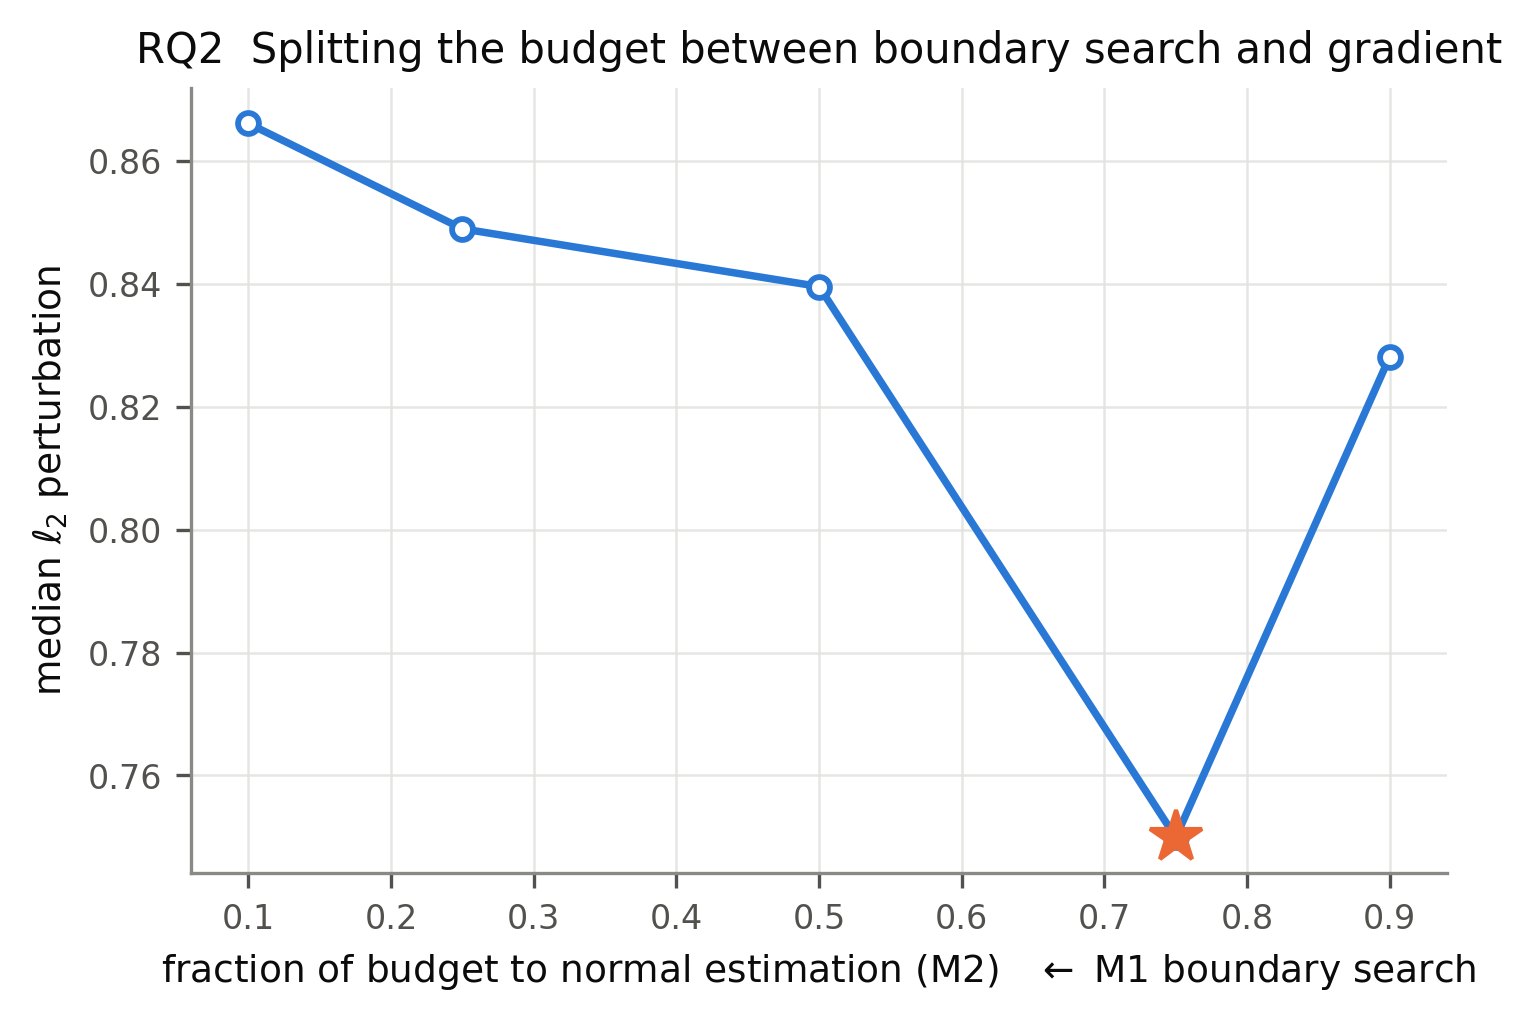
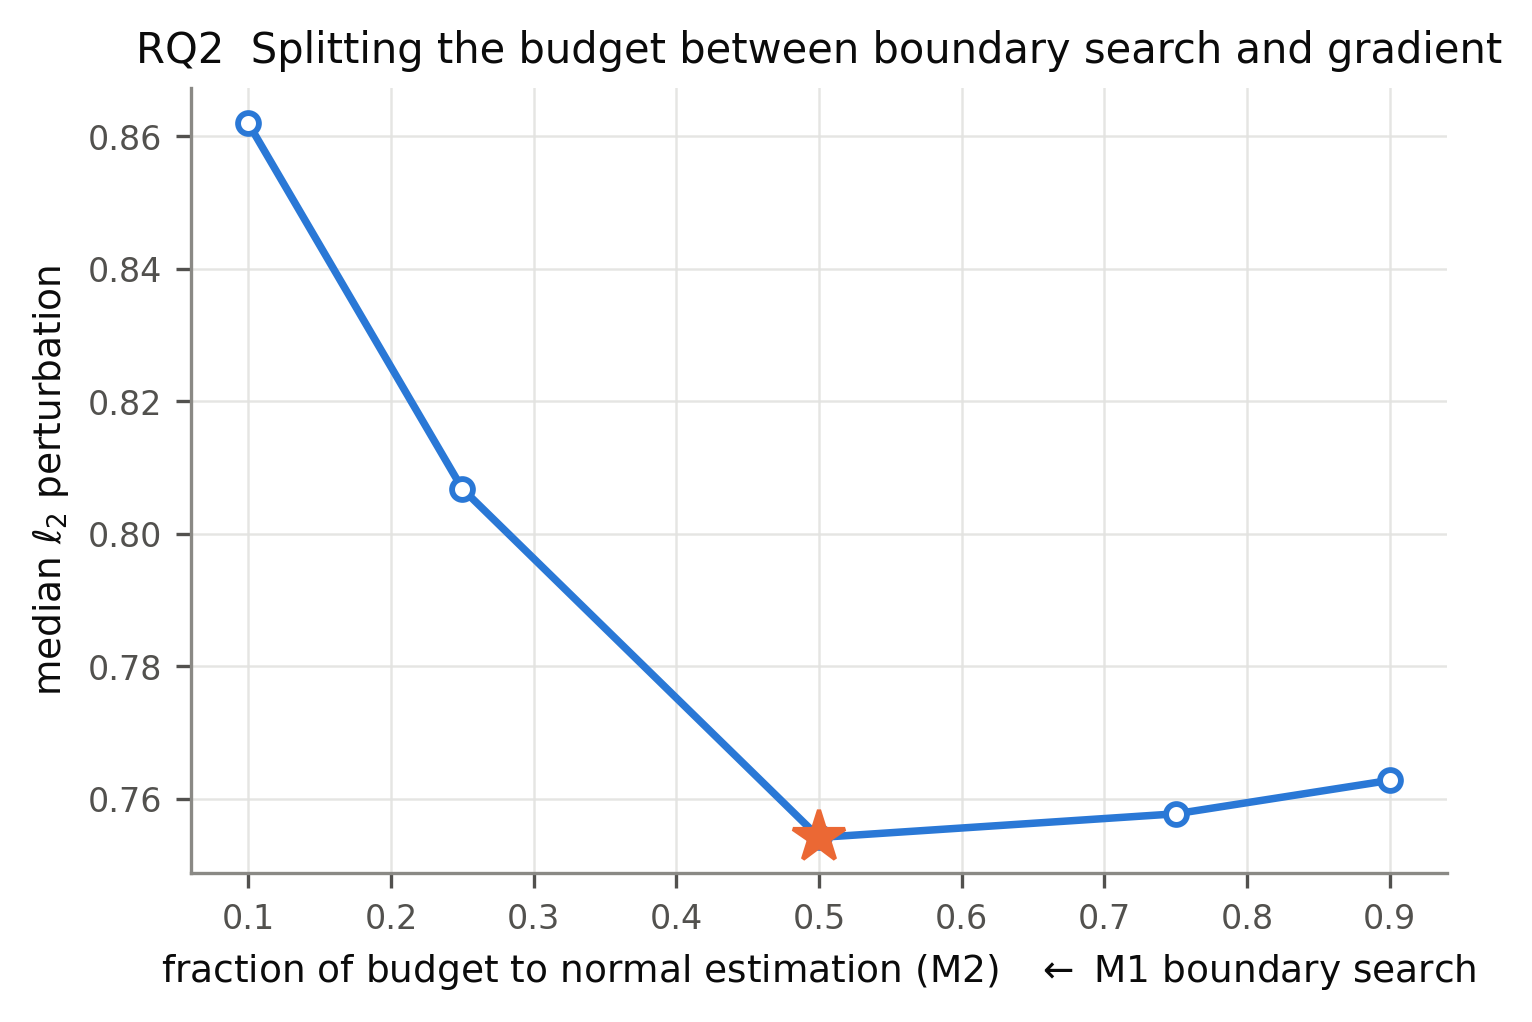
Complete RQ2 at 8 seeds: M1/M2 split interior optimum confirmed at 50/50 (Prop 3b), merged with 8-seed budget curve; update README

diff --git a/README.md b/README.md
@@ -177,12 +177,16 @@ Two effects worth naming:
   perturbation tightens 0.952 -> 0.756). More budget buys finer boundary resolution `τ`,
   so the returned point sits closer to the true boundary and is inherently more marginal.
 
-**RQ2 — query/shot economics.** A weak interior optimum appears in the probe-shot
-allocation (perturbation dips at `S_probe ≈ 2`) and a clearer one in the M1/M2 split
-(best around 0.75 of the per-iteration budget to the normal estimate), partially
-supporting H2. **Ablations:** re-uploading is the most attackable encoding (0.74 success)
-and amplitude the least (0.24); MNIST 0-vs-1 (near-separable, clean acc 0.995) is easier
-to attack than 3-vs-5 or Fashion-MNIST.
+**RQ2 — query/shot economics** (8 seeds; the paper's "quantum twist"). Exactly as
+Prop 3 predicts: the **probe-shot allocation has no interior optimum** — perturbation is
+minimised at the smallest shots (`S_probe = 1`, monotone up to 0.83 at `S = 256`), a
+boundary optimum (H2 is *false* for that sub-problem, a clean predicted negative result);
+while the genuine interior optimum lives in the **M1/M2 split**, minimised at a **50/50**
+division between boundary search and gradient estimation (0.862 → **0.754** → 0.763
+across frac = 0.1→0.9; gain 0.108 vs the worst edge). The budget curve is monotone and
+tight at 8 seeds (0.958 → 0.725 across T = 10k→160k). **Ablations:** re-uploading is the
+most attackable encoding (0.74 success) and amplitude the least (0.24); MNIST 0-vs-1
+(near-separable, clean acc 0.995) is easier to attack than 3-vs-5 or Fashion-MNIST.
 
 **RQ4 — first gradient-free test of two published defenses** (n=4, 3 seeds; the
 calibrated hard-label attacker never computes a gradient). Both sides of H4 appear, one